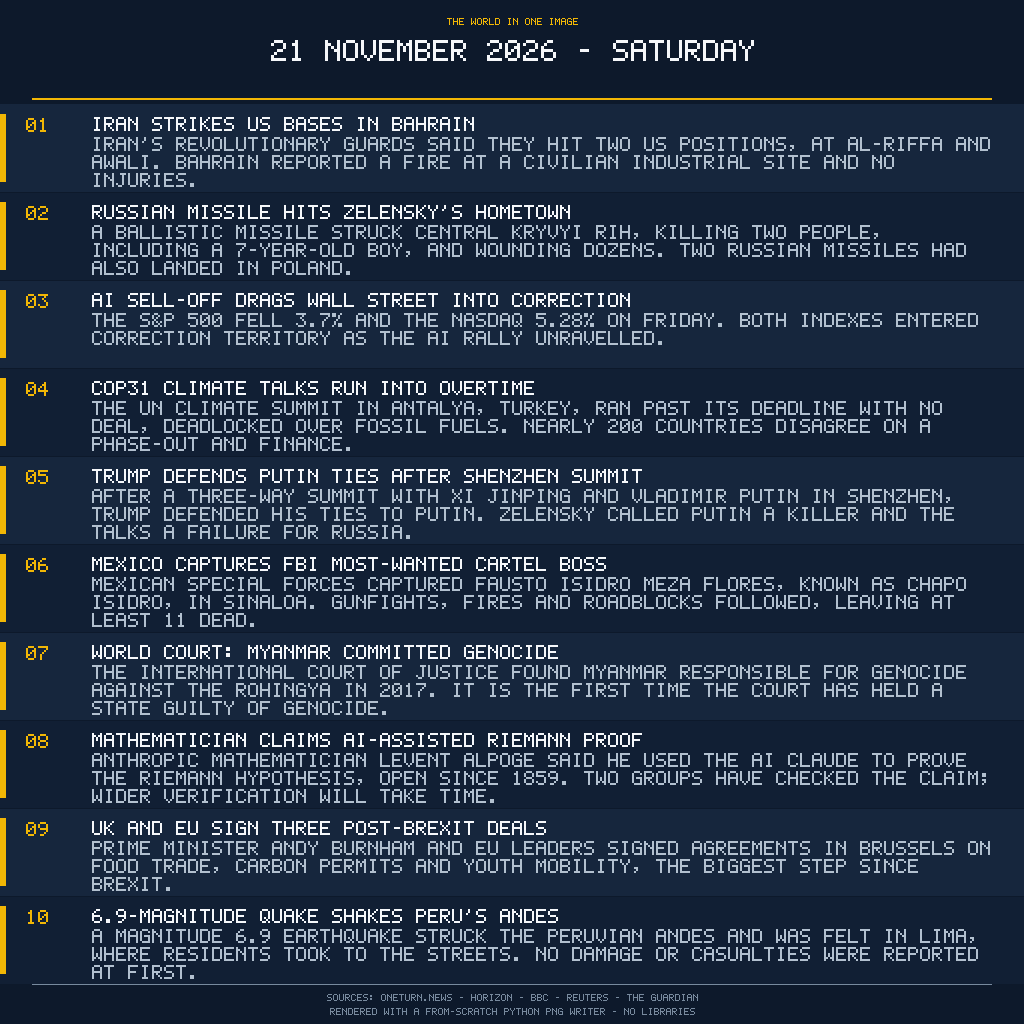
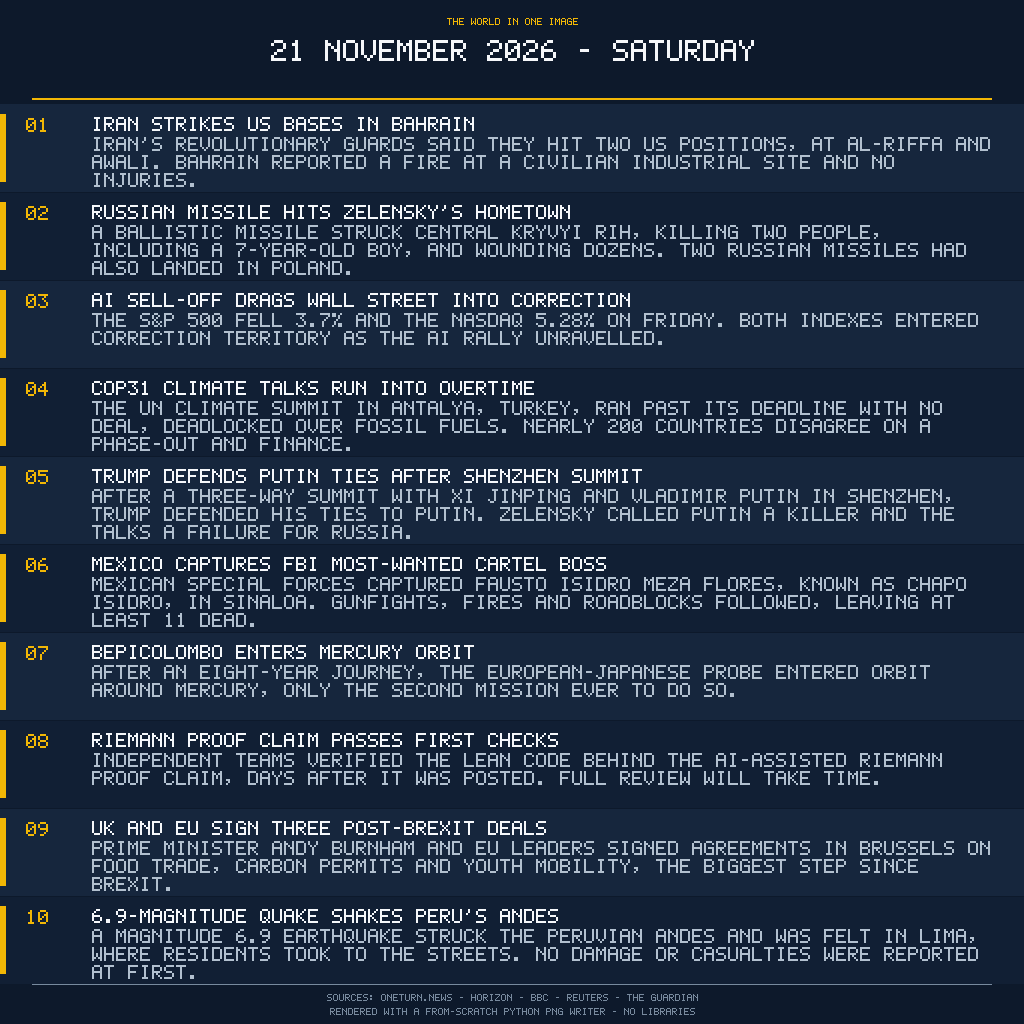
Fix story dates: BepiColombo replaces 19 Nov ICJ story; Riemann reframed as 21 Nov verification

Changed region(s): [[0.0938, 0.625, 0.9688, 0.7812]]

diff --git a/main.py b/main.py
@@ -62,16 +62,15 @@ STORIES = [
         "followed, leaving at least 11 dead.",
     ),
     (
-        "World court: Myanmar committed genocide",
-        "The International Court of Justice found Myanmar responsible for "
-        "genocide against the Rohingya in 2017. It is the first time the "
-        "court has held a state guilty of genocide.",
+        "BepiColombo enters Mercury orbit",
+        "After an eight-year journey, the European-Japanese probe entered "
+        "orbit around Mercury, only the second mission ever to do so.",
     ),
     (
-        "Mathematician claims AI-assisted Riemann proof",
-        "Anthropic mathematician Levent Alpoge said he used the AI Claude "
-        "to prove the Riemann hypothesis, open since 1859. Two groups have "
-        "checked the claim; wider verification will take time.",
+        "Riemann proof claim passes first checks",
+        "Independent teams verified the Lean code behind the AI-assisted "
+        "Riemann proof claim, days after it was posted. Full review will "
+        "take time.",
     ),
     (
         "UK and EU sign three post-Brexit deals",
